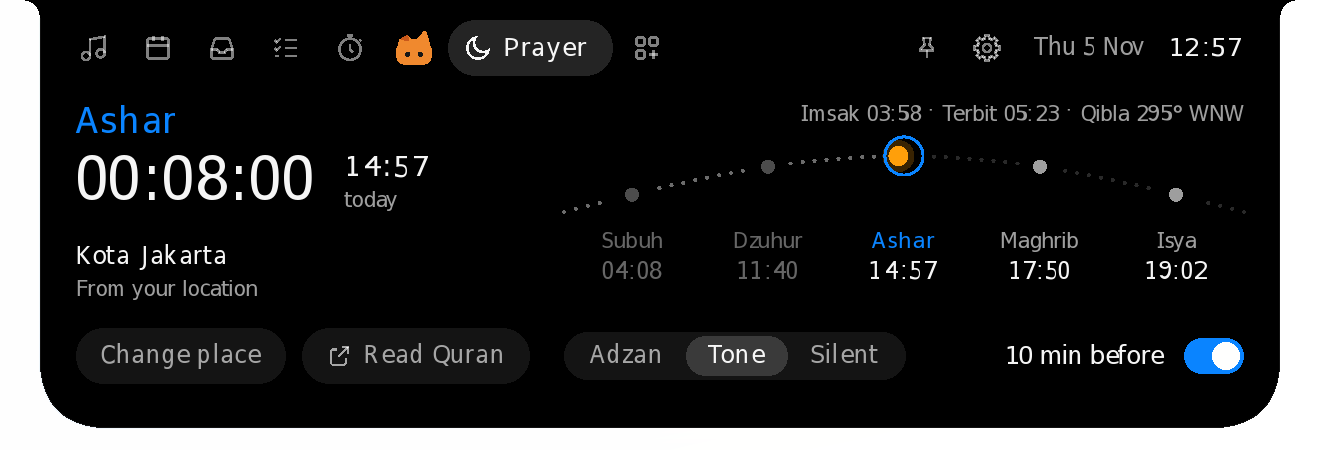
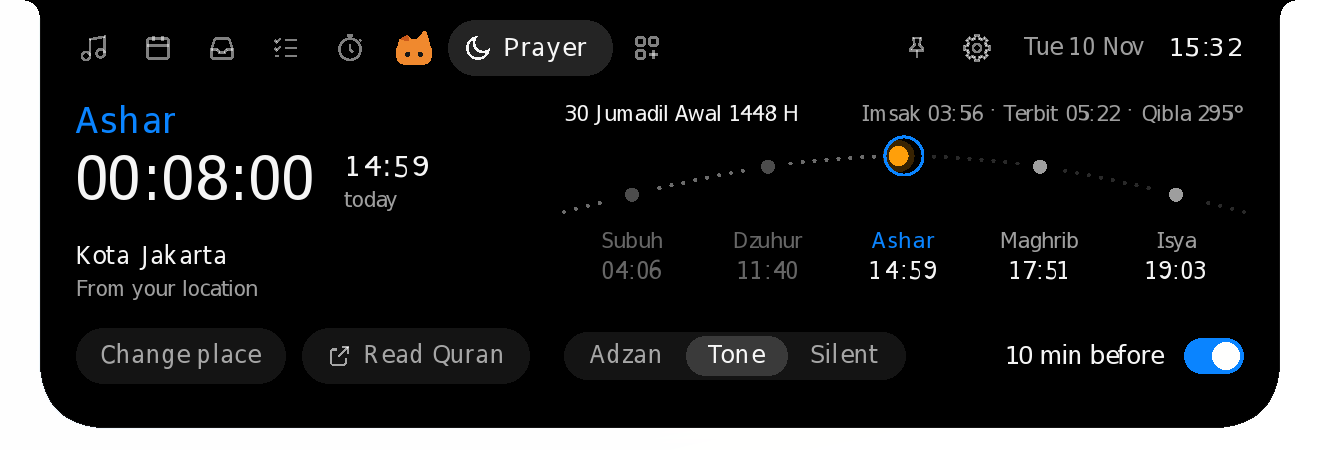
Release 0.2.28 (#214)
The version in every file that carries it, the release notes, and the
website: "New in 0.2.28." with Kemenag or Muhammadiyah first (Move the
island goes to the Everything new sheet, under 0.2.22), the Prayer
section and sheet on Muhammadiyah and the KHGT calendar, and the Prayer
page's pictures retaken with the Hijri date.

diff --git a/site/index.html b/site/index.html
@@ -781,7 +781,7 @@ dialog.more-sheet::backdrop { background: rgba(0, 0, 0, 0.42); -webkit-backdrop-
     <div class="side-sec">
       <p class="side-group">Overview</p>
       <a class="side-item" href="#top" data-k="home start download hero notch island"><i class="ic" style="--c:#1d1d1f"><svg class="ico"><use href="#i-screen"/></svg></i><span>A living notch</span></a>
-      <a class="side-item" href="#new" data-k="new release 0.2.27 latest changes diorama fifth look theme pixel art house tree cat sky day night dawn golden hour sunset sunrise moon stars glass ball resting pill see what pro brings studio pro add-ons every pro feature ai usage claude ultra 10x max 20x clearer adzan azan athan adhan prayer times sound recording antigravity agy ai tab mac top bar mydockfinder menu bar over notifications store tabs phone drop double tap zoom move the island drag along the top edge left right side browser tabs out of the way centre center mac macbook notch pill menu bar settings in the island againgear advanced settings window island closes update in version row check now settings window glides smooth motion 144 fps 120 hz promotion slide switches highlight trackpad scroll reduce motion downloader progress youtube puzzle solving meeting notes mac ielts coach speaking band downloader video sound studio pro settings window gear every setting one place sidebar light dark mode mac window title bar meeting notes record call transcript summary action items pro ai tab usage codex claude code opencode go gemini cursor copilot kimi glm minimax openrouter limits plans resets heads-up tabs hide switch off music today shelf tasks focus prayer countdown ok lyrics come back steps two hours ielts notifications whatsapp telegram mac signed developer id notarized checked by apple opens open anyway gone privacy security permissions once more right click menu stays open island stays open always looks for new versions version check now bluetooth pop-ups headphones speakers paired quiet connected disconnected check for updates every hour check now update available stays lyrics bar zen firefox stocks prices fixed getting prices mac updates install in place ihsg idx saham watchlist chart oyenza.trade today five weeks week ahead schedule month grid dots allow turn on prayer times anywhere world city mac youtube spotify browser now playing pill notch oyen oyenza tab system health add-ons clipboard history gone today your day google calendar gmail meeting join flights bills clipboard add-on touch screen tablet taps tap through notch eyes hide and seek macbook camera update available new version install now next start updater mac installer dmg window steps health oyenza sign in mac headphones full screen power island stays maximized windows sing along romaji lyrics mac prayer script reader teleprompter games power"><i class="ic" style="--c:#bf4800"><svg class="ico"><use href="#i-spark"/></svg></i><span>New in 0.2.27</span></a>
+      <a class="side-item" href="#new" data-k="new release 0.2.28 latest changes prayer times kemenag muhammadiyah khgt kalender hijriah global tunggal hijri date tanggal hijriah majelis tarjih subuh 18 isbat ramadan syawal 0.2.27 diorama fifth look theme pixel art house tree cat sky day night dawn golden hour sunset sunrise moon stars glass ball resting pill see what pro brings studio pro add-ons every pro feature ai usage claude ultra 10x max 20x clearer adzan azan athan adhan prayer times sound recording antigravity agy ai tab mac top bar mydockfinder menu bar over notifications store tabs phone drop double tap zoom move the island drag along the top edge left right side browser tabs out of the way centre center mac macbook notch pill menu bar settings in the island againgear advanced settings window island closes update in version row check now settings window glides smooth motion 144 fps 120 hz promotion slide switches highlight trackpad scroll reduce motion downloader progress youtube puzzle solving meeting notes mac ielts coach speaking band downloader video sound studio pro settings window gear every setting one place sidebar light dark mode mac window title bar meeting notes record call transcript summary action items pro ai tab usage codex claude code opencode go gemini cursor copilot kimi glm minimax openrouter limits plans resets heads-up tabs hide switch off music today shelf tasks focus prayer countdown ok lyrics come back steps two hours ielts notifications whatsapp telegram mac signed developer id notarized checked by apple opens open anyway gone privacy security permissions once more right click menu stays open island stays open always looks for new versions version check now bluetooth pop-ups headphones speakers paired quiet connected disconnected check for updates every hour check now update available stays lyrics bar zen firefox stocks prices fixed getting prices mac updates install in place ihsg idx saham watchlist chart oyenza.trade today five weeks week ahead schedule month grid dots allow turn on prayer times anywhere world city mac youtube spotify browser now playing pill notch oyen oyenza tab system health add-ons clipboard history gone today your day google calendar gmail meeting join flights bills clipboard add-on touch screen tablet taps tap through notch eyes hide and seek macbook camera update available new version install now next start updater mac installer dmg window steps health oyenza sign in mac headphones full screen power island stays maximized windows sing along romaji lyrics mac prayer script reader teleprompter games power"><i class="ic" style="--c:#bf4800"><svg class="ico"><use href="#i-spark"/></svg></i><span>New in 0.2.28</span></a>
       <a class="side-item" href="#highlights" data-k="best gallery overview"><i class="ic" style="--c:#ff9f0a"><svg class="ico"><use href="#i-spark"/></svg></i><span>Highlights</span></a>
       <a class="side-item" href="#features" data-k="rest idle music timer volume charging headphones bluetooth money clock eyes prayer countdown"><i class="ic" style="--c:#636366"><svg class="ico"><use href="#i-island"/></svg></i><span>While it rests</span></a>
     </div>
@@ -881,9 +881,9 @@ dialog.more-sheet::backdrop { background: rgba(0, 0, 0, 0.42); -webkit-backdrop-
           <div class="hero-copy">
             <h1 class="t-hero-eyebrow">Oyenza Studio</h1>
             <p class="t-hero">A living notch.</p>
-            <a class="t-avail" href="#new">New in 0.2.27: Diorama, a fifth look. The resting pill becomes a little place that keeps your day.</a>
+            <a class="t-avail" href="#new">New in 0.2.28: Prayer times can follow Muhammadiyah, with the KHGT Hijri date.</a>
             <div class="buybox">
-              <div><b>Free for Windows and Mac</b><span class="fine">Open source · Windows <span data-release="size">3.2&nbsp;MB</span> · Mac <span data-release="mac-size">5.9&nbsp;MB</span> · <a class="notes" data-release="notes" href="https://github.com/lucacadalora/oyenza-studio/releases/latest">What's new in <span data-release="version">0.2.27</span></a></span></div>
+              <div><b>Free for Windows and Mac</b><span class="fine">Open source · Windows <span data-release="size">3.2&nbsp;MB</span> · Mac <span data-release="mac-size">5.9&nbsp;MB</span> · <a class="notes" data-release="notes" href="https://github.com/lucacadalora/oyenza-studio/releases/latest">What's new in <span data-release="version">0.2.28</span></a></span></div>
               <a class="btn dl-primary" href="https://github.com/lucacadalora/oyenza-studio/releases/latest/download/Oyenza-Studio-Setup.exe"><span class="dl-word">Download</span><span class="send-word">Send to your computer</span></a>
             </div>
             <a class="link hero-other dl-other" data-release="mac-link" href="https://github.com/lucacadalora/oyenza-studio/releases/latest/download/Oyenza-Studio-Mac.dmg">Download for Mac</a>
@@ -903,10 +903,14 @@ dialog.more-sheet::backdrop { background: rgba(0, 0, 0, 0.42); -webkit-backdrop-
 
   <section class="sec band" id="new" aria-labelledby="new-title">
     <div class="content head rv">
-      <h2 class="t-l" id="new-title">New in 0.2.27.</h2>
+      <h2 class="t-l" id="new-title">New in 0.2.28.</h2>
       <button class="more" type="button" data-more="m-new">Everything new, release by release<i><svg class="ico"><use href="#i-plus"/></svg></i></button>
     </div>
     <div class="content news">
+      <a class="news-tile shot rv" href="#prayer">
+        <span class="news-visual top left" aria-hidden="true"><img class="look-classic" src="assets/shots/classic/page-prayer-muhammadiyah.webp" alt="" width="660" height="225" loading="lazy"><img class="look-oyen" src="assets/shots/oyen/page-prayer-muhammadiyah.webp" alt="" width="660" height="225" loading="lazy"></span>
+        <p class="t-card">Kemenag or Muhammadiyah</p><p class="t-tile">Prayer times can follow Muhammadiyah now: Majelis Tarjih's times and the Kalender Hijriah Global Tunggal (KHGT). Today's Hijri date shows above the arc, by the calendar you pick. Kemenag stays the default.</p>
+      </a>
       <a class="news-tile shot wide rv" href="#diorama">
         <span class="news-visual" aria-hidden="true"><span class="dio-grid"><img src="assets/shots/diorama/dawn.webp" srcset="assets/shots/diorama/dawn.webp 1x, assets/shots/zoom/diorama/dawn.webp 2x" alt="" width="200" height="92" loading="lazy"><img src="assets/shots/diorama/morning.webp" srcset="assets/shots/diorama/morning.webp 1x, assets/shots/zoom/diorama/morning.webp 2x" alt="" width="200" height="92" loading="lazy"><img src="assets/shots/diorama/golden-hour.webp" srcset="assets/shots/diorama/golden-hour.webp 1x, assets/shots/zoom/diorama/golden-hour.webp 2x" alt="" width="200" height="92" loading="lazy"><img src="assets/shots/diorama/night.webp" srcset="assets/shots/diorama/night.webp 1x, assets/shots/zoom/diorama/night.webp 2x" alt="" width="200" height="92" loading="lazy"></span></span>
         <p class="t-card">Diorama, a fifth look</p><p class="t-tile">The resting pill becomes a small window onto a pixel-art place: a house, a tree and a sky that follows your clock, from dawn through the golden hour to the stars. At sunset a glass ball rolls across, and night falls behind it. On Windows and Mac.</p>
@@ -922,13 +926,6 @@ dialog.more-sheet::backdrop { background: rgba(0, 0, 0, 0.42); -webkit-backdrop-
       <a class="news-tile shot rv" href="#ai">
         <span class="news-visual top right" aria-hidden="true"><img class="look-classic" src="assets/shots/classic/page-ai.webp" alt="" width="660" height="335" loading="lazy"><img class="look-oyen" src="assets/shots/oyen/page-ai.webp" alt="" width="660" height="335" loading="lazy"></span>
         <p class="t-card">Claude's new plan name</p><p class="t-tile">Claude's old Max 20x plan reads Ultra 10x on the AI tab now. On a Mac, the tab also shows Antigravity's 5-hour and weekly limits for each group of models. Part of Studio Pro.</p>
-      </a>
-      <a class="news-tile shot rv" href="#on-top">
-        <span class="news-visual" aria-hidden="true">
-          <span class="browser-top"><span class="browser-strip"></span><span class="browser-tabs"><span class="browser-tab on"><i></i><span>Inbox</span></span><span class="browser-tab"><i></i><span>Docs</span></span><span class="browser-new">+</span></span><svg class="browser-ctl" viewBox="0 0 108 31"><path d="M13 15.5h10M49.5 11h9v9h-9zM85.5 11l9 9m0-9-9 9"/></svg><span class="browser-url">Search or type a URL</span></span>
-          <span class="browser-isl"><img class="look-classic" src="assets/shots/classic/media-activity.webp" alt="" width="702" height="65" loading="lazy"><img class="look-oyen" src="assets/shots/oyen/media-activity.webp" alt="" width="654" height="65" loading="lazy"><svg class="browser-cursor" viewBox="0 0 28 16"><path d="M1.5 8 7.5 2v4h13V2l6 6-6 6v-4h-13v4z" fill="#000" stroke="#fff" stroke-width="1.4" stroke-linejoin="round"/></svg></span>
-        </span>
-        <p class="t-card">Move the island</p><p class="t-tile">Press the island and drag it along the top edge, out of your browser's tabs. It stays there, and opens away from the edge. On Windows, and now on a Mac: in every theme without a notch, and in Pill and Diorama around a MacBook's notch.</p>
       </a>
     </div>
   </section>
@@ -978,7 +975,7 @@ dialog.more-sheet::backdrop { background: rgba(0, 0, 0, 0.42); -webkit-backdrop-
       <a class="gcard" href="#prayer">
         <p>Prayer times for your kab/kota, or any city in the world.</p>
         <div class="gsky"><div class="sky-fill"></div>
-          <img class="look-classic" src="assets/shots/classic/page-prayer.webp" alt="The Prayer page: Ashar at 14:52, counting down from 00:08:00, Kota Jakarta, today's five prayers on an arc with Ashar lit, Imsak, Terbit and the qibla, and Adzan, Tone or Silent" width="660" height="225" loading="lazy">
+          <img class="look-classic" src="assets/shots/classic/page-prayer.webp" alt="The Prayer page: Ashar at 14:59, counting down from 00:08:00, Kota Jakarta, today's five prayers on an arc with Ashar lit, the Hijri date, Imsak, Terbit and the qibla, and Adzan, Tone or Silent" width="660" height="225" loading="lazy">
           <img class="look-oyen" src="assets/shots/oyen/page-prayer.webp" alt="The Prayer page in the Oyen theme" width="660" height="225" loading="lazy">
         </div>
       </a>
@@ -1267,14 +1264,14 @@ dialog.more-sheet::backdrop { background: rgba(0, 0, 0, 0.42); -webkit-backdrop-
     <div class="content head rv">
       <p class="t-label">Prayer times</p>
       <h3 class="t-l" id="prayer-title">Prayer times, for your city.</h3>
-      <p class="t-intro">As <b>Kemenag RI</b> publishes them, with a live countdown, today on one arc, the qibla and the adzan, on Windows and Mac. New in 0.2.25: a clearer adzan.</p>
+      <p class="t-intro">As <b>Kemenag RI</b> publishes them, or as <b>Muhammadiyah</b> does, with a live countdown, today on one arc, the Hijri date, the qibla and the adzan, on Windows and Mac. New in 0.2.28: Muhammadiyah's times and the KHGT calendar.</p>
       <button class="more" type="button" data-more="m-prayer">More about prayer times<i><svg class="ico"><use href="#i-plus"/></svg></i></button>
     </div>
     <div class="content">
       <div class="panel rv-zoom" data-scene="par">
         <div class="sky-layer"></div>
         <div class="isl">
-          <img class="look-classic" src="assets/shots/classic/page-prayer.webp" alt="The Prayer page: Ashar at 14:52, counting down from 00:08:00, Kota Jakarta, today's five prayers on an arc with Ashar lit, Imsak, Terbit and the qibla, and Adzan, Tone or Silent" width="660" height="225" loading="lazy">
+          <img class="look-classic" src="assets/shots/classic/page-prayer.webp" alt="The Prayer page: Ashar at 14:59, counting down from 00:08:00, Kota Jakarta, today's five prayers on an arc with Ashar lit, the Hijri date, Imsak, Terbit and the qibla, and Adzan, Tone or Silent" width="660" height="225" loading="lazy">
           <img class="look-oyen" src="assets/shots/oyen/page-prayer.webp" alt="The Prayer page in the Oyen theme" width="660" height="225" loading="lazy">
         </div>
         <img class="pose left" src="brand/art/poses/oyen-prayer.webp" alt="Oyen holding a lantern" width="480" height="562" loading="lazy">
@@ -1882,6 +1879,7 @@ dialog.more-sheet::backdrop { background: rgba(0, 0, 0, 0.42); -webkit-backdrop-
     <h2 class="t-m" id="m-prayer-t">Prayer times, for your city.</h2>
     <p>Today's times as Kemenag RI publishes them for your kab/kota, the next prayer and how long until it, and the qibla. <b>New in 0.2.1:</b> the page counts down to the next prayer in hours, minutes and seconds, and shows today's five prayers on one arc, with the sun or the moon. <b>New in 0.2.10:</b> anywhere in the world. Type any city, or let the location find it: 33,000 cities, each with the method its country follows, on its own clock, summer time included. <b>Your computer's location finds the nearest of Kemenag's 517 places</b>, from Windows' location or the Mac's Location Services, and checks again when your laptop travels, or you type your city. The point stays on your computer: it only picks the place.</p>
     <p>In the ten minutes before each prayer the island counts down, and when it's time it says so, with a short tone, the adzan, or nothing. <b>New in 0.2.25:</b> a clearer adzan, a new recording without the crowd and the echo of the old one ("The Adhan - Muslim Call to Prayer - Aaqib Azeez" by Atcovi, Wikimedia Commons, CC BY-SA 4.0). Checked against Kemenag's 2026 schedule: 98.2% of 227,367 times to the minute, none more than a minute off. Makkah, Madinah and Jeddah use Umm al-Qura.</p>
+    <p><b>New in 0.2.28: Kemenag or Muhammadiyah.</b> Click Change place and pick under Times and Hijri dates. Kemenag, the default, keeps Kemenag's schedule and the government's Hijri calendar (MABIMS, with the months the sidang isbat announced). Muhammadiyah (KHGT) gives places in Indonesia Majelis Tarjih's schedule, with Subuh at 18°, and the Kalender Hijriah Global Tunggal: one Hijri date for the whole world, as Muhammadiyah publishes it up to 1451 H, and worked out from the moon after that. Its times match khgt.muhammadiyah.or.id to the minute, or within one. Either way, today's Hijri date shows above the arc.</p>
     <p><b>New in 0.2.3: on the Mac.</b> Prayer times is in the Mac's Add-ons tab too, with the adzan. Around a MacBook's notch the countdown sits beside the camera: the moon on the left, the minutes on the right.</p>
     <p>Prayer times is an add-on: open the + at the end of the tabs and switch it on. It downloads then, 959 KB, checked against the fingerprint built into the app, and switching it off deletes its files.</p>
   </div>
@@ -2059,6 +2057,10 @@ dialog.more-sheet::backdrop { background: rgba(0, 0, 0, 0.42); -webkit-backdrop-
   <div class="sheet-body">
     <p class="t-label">Everything new</p>
     <h2 class="t-m" id="m-new-t">Release by release.</h2>
+    <h4>New in 0.2.22</h4>
+    <ul class="new-list">
+      <li><i class="ic" style="--c:#8e8e93"><svg class="ico"><use href="#i-gear"/></svg></i><span><b>Move the island</b>Press the island and drag it along the top edge, out of your browser's tabs. It stays there, and opens away from the edge. On Windows; on a Mac too from 0.2.23, in every theme without a notch, and in Pill and Diorama around a MacBook's notch.</span></li>
+    </ul>
     <h4>New in 0.2.21</h4>
     <ul class="new-list">
       <li><i class="ic" style="--c:#8e8e93"><svg class="ico"><use href="#i-gear"/></svg></i><span><b>Settings in the island again</b>The gear opens Settings in the island: your account, the theme, the idle look and the switches you use most. Its last row, Advanced settings, opens every setting in a window. On Windows and Mac.</span></li>

diff --git a/tools/site_shots.py b/tools/site_shots.py
@@ -111,7 +111,7 @@ KEEP = {
     "idle-clock", "idle-eyes", "media-activity", "timer-activity", "volume-hud", "bluetooth-hud",
     "page-media", "page-focus", "page-health", "page-shelf", "page-tasks", "page-today-day",
     "page-shelf-phone-ask", "oyenza-money", "page-oyenza", "page-oyenza-signin", "page-settings", "page-system",
-    "page-shelf-pairing", "page-addons", "page-prayer", "prayer-countdown",
+    "page-shelf-pairing", "page-addons", "page-prayer", "page-prayer-muhammadiyah", "prayer-countdown",
     "game-stats", "page-system-games", "page-system-power-estimate", "page-script", "page-script-reading", "media-lyric",
     "message-notice", "notes-activity",
     "page-ai",

diff --git a/docs/release-notes/v0.2.28.md b/docs/release-notes/v0.2.28.md
@@ -1,0 +1,20 @@
+**Prayer times: Kemenag or Muhammadiyah.** Prayer times can follow Muhammadiyah now, as well as Kemenag. Open the Prayer tab, click **Change place**, and pick under **Times and Hijri dates**:
+
+- **Kemenag**, as before: Kemenag RI's schedule, and the government's Hijri calendar (MABIMS, with the months the sidang isbat announced).
+- **Muhammadiyah (KHGT)**: Majelis Tarjih's schedule for places in Indonesia, with Subuh at 18° (about 8 minutes after Kemenag's), and the Kalender Hijriah Global Tunggal, one Hijri date for the whole world. Its times match khgt.muhammadiyah.or.id to the minute, or within one. Its dates are the months Muhammadiyah published up to 1451 H.
+
+The two calendars often begin a month a day apart: Ramadan 1447 started on 18 February 2026 by KHGT and on 19 February by the government. Cities outside Indonesia keep their own country's times either way; the choice gives them the calendar.
+
+**Today's Hijri date** shows above the arc on the Prayer page, such as "1 Jumadil Akhir 1448 H", by the calendar you follow. Where the island is narrow, the qibla's compass point makes room for it. While you follow Muhammadiyah, its name stands beside your place.
+
+Nothing new runs at rest. The date is worked out from the moon itself, once a month, in a few milliseconds: no download, nothing online. poni.exe grows by 30 KB.
+
+Everything new in 0.2.27 is here too: Diorama, a fifth look, whose resting pill is a small window onto a pixel-art place that keeps your day. See the [0.2.27 notes](https://github.com/lucacadalora/oyenza-studio/releases/tag/v0.2.27).
+
+**Install:** download `Oyenza-Studio-Setup.exe` and run it. It installs just for you (no admin rights) and can start with Windows. Or unzip the portable zip and run `Poni\poni.exe`. Links to `Oyen-Poni-Setup.exe` keep working: every release carries that file too.
+
+**On a Mac:** open `Oyenza-Studio-Mac.dmg`, drag Oyenza Studio into Applications and open it. macOS asks once whether to open an app downloaded from the internet: click **Open**.
+
+**Upgrading:** the island says **Update available** within the hour on 0.2.13 to 0.2.27, and within half a day on 0.2.6 to 0.2.12; **Install now** in the Update sheet installs it for you. On a Mac, a copy older than 0.2.12 downloads the DMG instead: open it and drag Oyenza Studio into Applications. If macOS doesn't let a copy replace itself, it opens the DMG for you to do the same. Either way it upgrades in place and keeps your settings, data, add-ons and Oyenza sign-in.
+
+The Windows build isn't code-signed yet, so Windows SmartScreen may say "Windows protected your PC". Click **More info → Run anyway**.
